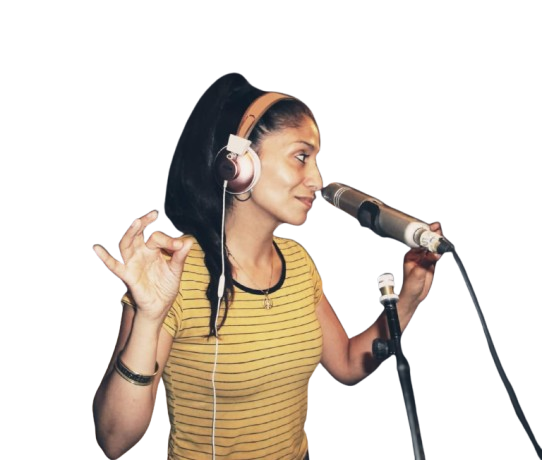
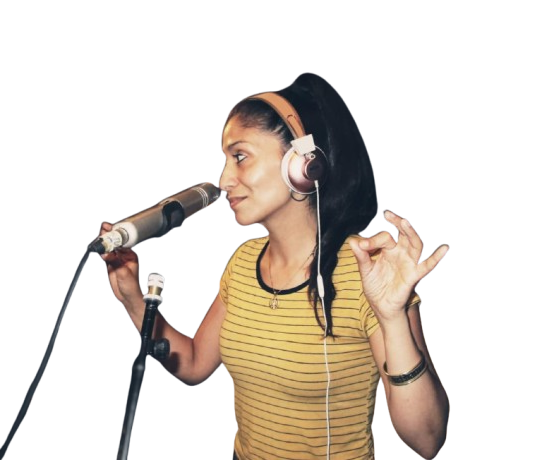
Se añadió sección 'galería de fotos'

diff --git a/index.html b/index.html
@@ -5,11 +5,14 @@
     <meta name="viewport" content="width=device-width, initial-scale=1.0" />
 
     <!-- Fuentes -->
-    <link rel="preconnect" href="https://fonts.googleapis.com">
-<link rel="preconnect" href="https://fonts.gstatic.com" crossorigin>
-<link href="https://fonts.googleapis.com/css2?family=Cormorant+Garamond:ital,wght@0,300;0,400;1,300&family=Jost:wght@300;400&display=swap" rel="stylesheet">
-   <!-- Css -->
-<link rel="stylesheet" href="style.css" />
+    <link rel="preconnect" href="https://fonts.googleapis.com" />
+    <link rel="preconnect" href="https://fonts.gstatic.com" crossorigin />
+    <link
+      href="https://fonts.googleapis.com/css2?family=Cormorant+Garamond:ital,wght@0,300;0,400;1,300&family=Jost:wght@300;400&display=swap"
+      rel="stylesheet"
+    />
+    <!-- Css -->
+    <link rel="stylesheet" href="style.css" />
     <link
       rel="stylesheet"
       href="https://cdnjs.cloudflare.com/ajax/libs/font-awesome/6.5.0/css/all.min.css"
@@ -54,79 +57,165 @@
       />
     </header>
     <!--Fin Header-->
-  
 
-  <!-- Comienzo MAIN, sección principal-->
-  <main>
+    <!-- Comienzo MAIN, sección principal-->
+    <main>
+      <!-- Comienzo sección Hero-->
+      <section id="inicio" class="hero">
+        <div class="hero-descripcion">
+          <h1 class="titulo-principal">Despertá tu voz interior</h1>
+          <p>
+            Soy Prathayan, cantante profesional y profesora de canto. Mi enfoque
+            es ayudarte a liberar tu voz hablada y cantando, mediante técnicas
+            dónde trabajarás las emociones conscientes e inconscientes.
+          </p>
+        </div>
+        <img
+          class="imagen-hero"
+          src="assets/imagen-hero.png"
+          alt="Foto de Paola Prathayan cantando"
+        />
+      </section>
+      <!-- Fin sección Hero-->
 
-    <!-- Comienzo sección Hero-->
-    <section id="inicio" class="hero">
-      <div class="hero-descripcion">
-        <h1 class="titulo-principal">Despertá tu voz interior</h1>
-        <p>
-          Soy Paola Prathayan, cantante profesional y profesora de canto.
-          Ofrezco un enfoque integral que une técnica vocal con el trabajo
-          emocional y expresivo.
-        </p>
-      </div>
-      <img
-        class="imagen-hero"
-        src="assets/imagen-hero.png"
-        alt="Foto de Paola Prathayan cantando"
-      />
-    </section>
-    <!-- Fin sección Hero-->
+      <div class="separador">✧</div>
 
-    <div class="separador">✧</div>
+      <!-- Comienzo sección "sobre mí"-->
 
-    <!-- Comienzo sección "sobre mí"-->
+      <section id="sobre-mi">
+        <h2 class="subtitulo-sobre-mi">¿Quién soy? Mi historia con la voz</h2>
 
-<section id="sobre-mi">
-  <h2 class="subtitulo-sobre-mi"> ¿Quién soy? Mi historia con la voz</h2>
-  
-  <div class="sobre-mi-descripcion">
-    <p>Mi camino con la voz comenzó desde muy jóven, aunque durante mucho tiempo los miedos y las exigencias me impidieron expresarla.</p>
-    <p>Fue en la adultez cuando decidí transformarlo, formándome en canto, comedia musical, foniatría y actualmente en fonoaudiología. Con el tiempo, el yoga, los mantras y la meditación ampliaron mi mirada, llevándome a comprender la voz como una expresión profunda que integra cuerpo, emoción y energía.</p>
-    <p>Hoy, con mi enfoque integral, ofrezco acompañamiento a cada persona para liberar su voz, tanto cantada como hablada.</p>
-    <p>Creo profundamente que todos tenemos una voz única esperando a ser descubierta ¡Y estoy acá para ayudarte a encontrarla!.</p>
-  </div>
+        <div class="sobre-mi-descripcion">
+          <p>
+            Mi camino con la voz comenzó desde muy jóven, aunque durante mucho
+            tiempo los miedos y las exigencias me impidieron expresarla.
+          </p>
+          <p>
+            Fue en la adultez cuando decidí transformarlo, formándome en canto,
+            comedia musical, foniatría y actualmente en fonoaudiología. Con el
+            tiempo, el yoga, los mantras y la meditación ampliaron mi mirada,
+            llevándome a comprender la voz como una expresión profunda que
+            integra cuerpo, emoción y energía.
+          </p>
+          <p>
+            Hoy, con mi enfoque integral, ofrezco acompañamiento a cada persona
+            para liberar su voz, tanto cantada como hablada.
+          </p>
+          <p>
+            Creo profundamente que todos tenemos una voz única esperando a ser
+            descubierta ¡Y estoy acá para ayudarte a encontrarla!.
+          </p>
+        </div>
 
-  <div class="sobre-mi-iconos">
-    <div class="icono-item">
-      <i class="fa-solid fa-music"></i>
-      <span>Canto & Técnica vocal</span>
-    </div>
-    <div class="icono-item">
-      <i class="fa-solid fa-spa"></i>
-      <span>Yoga & Mantras</span>
-    </div>
-    <div class="icono-item">
-      <i class="fa-solid fa-lungs"></i>
-      <span>Fonoaudiología</span>
-    </div>
-    <div class="icono-item">
-      <i class="fa-solid fa-comments"></i>
-      <span>Expresión emocional</span>
-    </div>
-  </div>
-</section>
-     <!-- Fin sección "sobre mí"-->
+        <div class="sobre-mi-iconos">
+          <div class="icono-item">
+            <i class="fa-solid fa-music"></i>
+            <span>Canto & Técnica vocal</span>
+          </div>
+          <div class="icono-item">
+            <i class="fa-solid fa-spa"></i>
+            <span>Yoga & Mantras</span>
+          </div>
+          <div class="icono-item">
+            <i class="fa-solid fa-lungs"></i>
+            <span>Fonoaudiología</span>
+          </div>
+          <div class="icono-item">
+            <i class="fa-solid fa-comments"></i>
+            <span>Expresión emocional</span>
+          </div>
+        </div>
+      </section>
+      <!-- Fin sección "sobre mí"-->
       <div class="separador">✧</div>
 
       <!-- Comienzo "Sección cita" -->
-       <section id="cita" class="cita">
-  <blockquote>
-    <p>"Lorem ipsum dolor sit amet, consectetur adipiscing elit. Sed do eiusmod tempor incididunt ut labore."</p>
-    <cite>— Lorem Ipsum</cite>
-  </blockquote>
-</section>
-       <!-- Fin "Sección cita" -->
-      <div class="separador">✧</div>
-  </main>
+      <section id="cita" class="cita">
+        <blockquote>
+          <p>
+            "Lorem ipsum dolor sit amet, consectetur adipiscing elit. Sed do
+            eiusmod tempor incididunt ut labore."
+          </p>
+          <cite>— Lorem Ipsum</cite>
+        </blockquote>
+      </section>
+      <!-- Fin "Sección cita" -->
 
-  <!-- Fin sección principal-->
-   <a href="https://wa.me/5491138258439" target="_blank" class="whatsapp-flotante" aria-label="Contactar por WhatsApp">
-  <i class="fa-brands fa-whatsapp"></i>
-</a>
-   </body>
+      <div class="separador">✧</div>
+
+      <!-- Comienzo sección "grid"-->
+      <section id="galeria" class="galeria">
+        <h2 class="subtitulo-galeria">
+          Espacios donde la voz encuentra su lugar
+        </h2>
+
+        <div class="galeria-grid">
+          <figure class="galeria-item">
+            <img
+              src="assets/image-galeria-1.webp"
+              alt="Prathayan cantando en evento"
+              class="imagen-galeria"
+            />
+            <figcaption>Texto descriptivo 1</figcaption>
+          </figure>
+
+          <figure class="galeria-item">
+            <img
+              src="assets/image-galeria-2.webp"
+              alt="Prathayan en escuela de yoga"
+              class="imagen-galeria"
+            />
+            <figcaption>Texto descriptivo 2</figcaption>
+          </figure>
+
+          <figure class="galeria-item">
+            <img
+              src="assets/image-galeria-3.webp"
+              alt="Prathayan cantando mantras"
+              class="imagen-galeria"
+            />
+            <figcaption>Texto descriptivo 3</figcaption>
+          </figure>
+
+          <figure class="galeria-item">
+            <img
+              src="assets/imagen-galeria-4.webp"
+              alt="Concierto de Prathayan"
+              class="imagen-galeria"
+            />
+            <figcaption>Texto descriptivo 4</figcaption>
+          </figure>
+
+          <figure class="galeria-item">
+            <img
+              src="assets/image-galeria-5.webp"
+              alt="Clase grupal de mantras"
+              class="imagen-galeria"
+            />
+            <figcaption>Texto descriptivo 5</figcaption>
+          </figure>
+
+          <figure class="galeria-item">
+            <img
+              src="assets/image-galeria-6.webp"
+              alt="Prathayan en evento íntimo"
+              class="imagen-galeria"
+            />
+            <figcaption>Texto descriptivo 6</figcaption>
+          </figure>
+        </div>
+      </section>
+      <!-- Fin sección "grid"-->
+    </main>
+
+    <!-- Fin sección principal-->
+    <a
+      href="https://wa.me/5491138258439"
+      target="_blank"
+      class="whatsapp-flotante"
+      aria-label="Contactar por WhatsApp"
+    >
+      <i class="fa-brands fa-whatsapp"></i>
+    </a>
+  </body>
 </html>

diff --git a/style.css b/style.css
@@ -13,8 +13,8 @@
   --textos-secundarios: #e6dcc6;
   --botones: #5f6655;
   --sombras: rgba(45, 47, 34, 0.1);
-  --fuente-titulos: 'Cormorant Garamond', serif;
-  --fuente-body: 'Jost', sans-serif;
+  --fuente-titulos: "Cormorant Garamond", serif;
+  --fuente-body: "Jost", sans-serif;
 }
 
 body {
@@ -22,7 +22,8 @@ body {
   font-family: var(--fuente-body);
 }
 
-.titulo-principal, .subtitulo-sobre-mi {
+.titulo-principal,
+.subtitulo-sobre-mi {
   font-family: var(--fuente-titulos);
 }
 
@@ -273,13 +274,63 @@ p {
   letter-spacing: 2px;
 }
 
+/* Sección Galería */
+
+.galeria {
+  padding: 40px 20px;
+  text-align: center;
+  max-width: 1200px;
+  margin: 0 auto;
+}
+
+.subtitulo-galeria {
+  color: var(--detalles);
+  font-size: 1.8rem;
+  margin-bottom: 30px;
+}
+
+.galeria-grid {
+  display: grid;
+  grid-template-columns: 1fr;
+  gap: 20px;
+}
+
+.galeria-item {
+  margin: 0;
+  overflow: hidden;
+}
+
+.imagen-galeria {
+  width: 100%;
+  height: 200px;
+  object-fit: cover;
+  object-position: center 30%;
+  border-radius: 8px;
+}
+
+.galeria-item figcaption {
+  color: var(--textos-secundarios);
+  font-size: 0.85rem;
+  margin-top: 8px;
+  letter-spacing: 1px;
+  text-align: center;
+}
+
+.galeria-item:first-child .imagen-galeria {
+  object-position: center 5%;
+}
+
+.galeria-item:nth-child(3) .imagen-galeria {
+  object-position: center 5%;
+}
+
 /* Icono WhatsApp */
 
 .whatsapp-flotante {
   position: fixed;
   bottom: 25px;
   right: 25px;
-   background-color: rgba(80, 110, 85, 0.85); 
+  background-color: rgba(80, 110, 85, 0.85);
   color: var(--detalles);
   backdrop-filter: blur(4px);
   width: 55px;
@@ -290,7 +341,7 @@ p {
   justify-content: center;
   font-size: 1.8rem;
   z-index: 9999;
-  box-shadow: 0 4px 12px rgba(0,0,0,0.2);
+  box-shadow: 0 4px 12px rgba(0, 0, 0, 0.2);
   text-decoration: none;
 }
 
@@ -378,6 +429,13 @@ p {
     width: 50%;
   }
 
+  .galeria-grid {
+    grid-template-columns: repeat(2, 1fr);
+  }
+
+  .imagen-galeria {
+    height: 200px;
+  }
 }
 
 /* Desktop */
@@ -391,6 +449,14 @@ p {
     width: 40%;
     max-height: 500px;
     object-fit: cover;
+  }
+
+  .galeria-grid {
+    grid-template-columns: repeat(3, 1fr);
+  }
+
+  .imagen-galeria {
+    height: 250px;
   }
 }
 